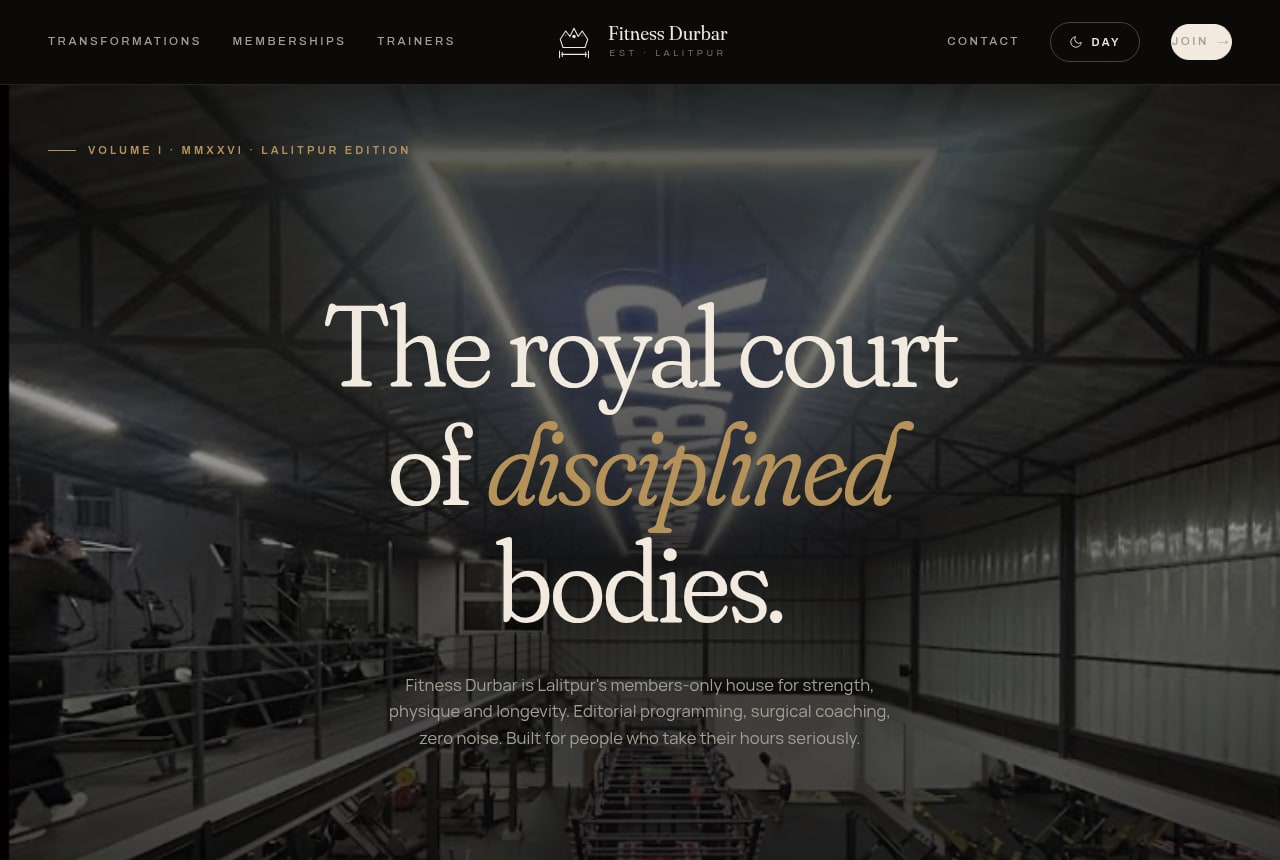
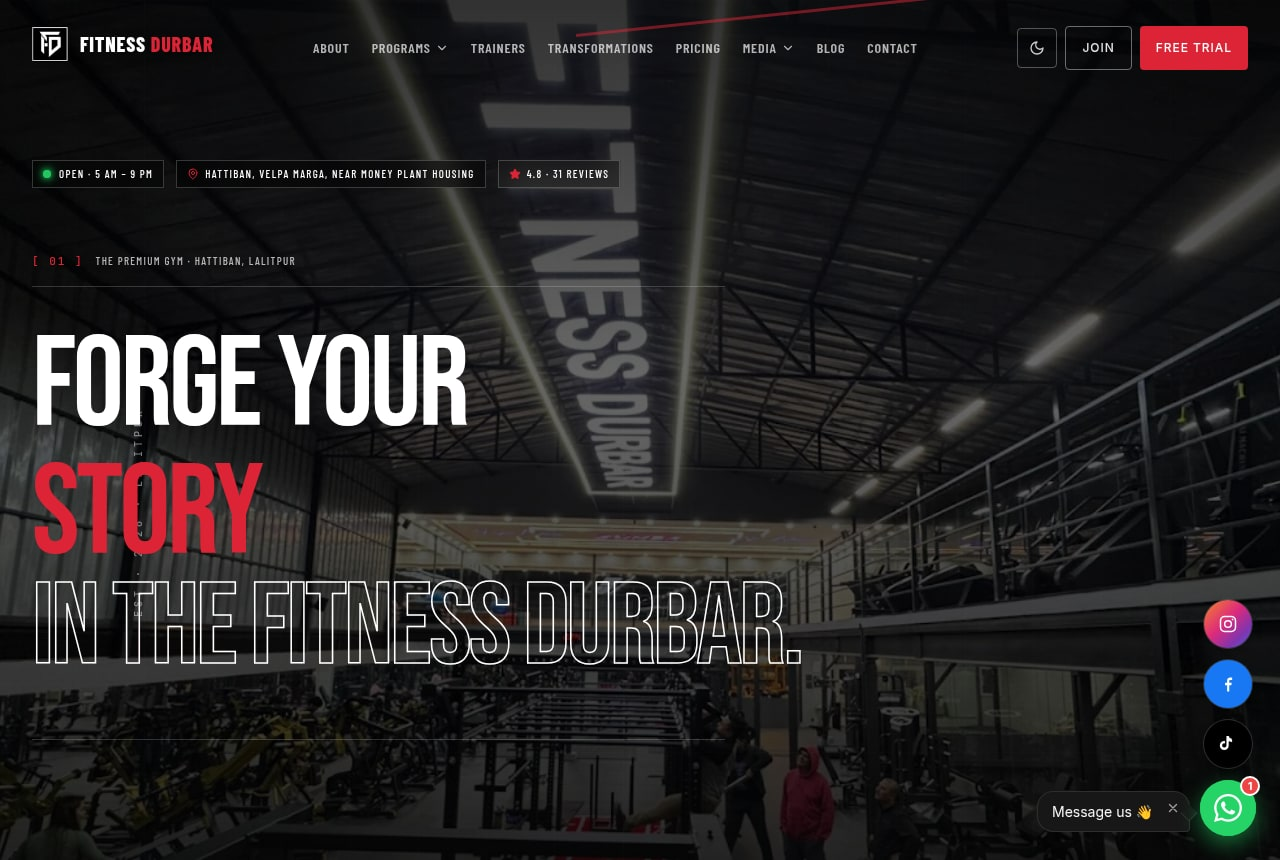
Point the Fitness Durbar case study at the live site
The real site is fitnessdurbar.com.np, a different and much fuller build
than the fitness-durbar.pages.dev concept the entry was written from.
Screenshot recaptured and the description rewritten to match what is
actually live: programmes, trainers, pricing, transformations, FAQ schema,
blog and media, social and WhatsApp enquiry.

diff --git a/src/data/projects.js b/src/data/projects.js
@@ -46,18 +46,17 @@ export const projects = [
     client: 'Fitness Durbar',
     sector: 'Gyms and fitness studios',
     sectorHref: '/sectors#gyms',
-    location: 'Hattiban, Lalitpur',
+    location: 'Hattiban, Velpa Marga, Lalitpur',
     year: '2026',
-    // Until fitnessdurbar.com is pointed at the site, the working address is
-    // the one we can link. Swap this the day the domain resolves.
-    url: 'https://fitness-durbar.pages.dev',
+    url: 'https://fitnessdurbar.com.np',
     summary:
-      'A members-only gym does not compete on being the cheapest in Lalitpur, so the site is not built to sell on price. It is built to set a standard and let the reader decide whether they belong in it.',
+      'A gym is chosen on proof: who will train you, what it costs, and whether people starting where you are have got anywhere. The site puts those three in front of the visitor rather than making them ask for any of them.',
     built: [
-      'An editorial design that treats the gym as a name rather than a facility, because selectivity is the thing being sold and a discount layout would have argued against it.',
-      'The address, coordinates and opening hours marked up as a health club, so the gym can be placed and shown correctly in local search.',
-      'Membership tiers set out in full, so the level of commitment is clear before anyone makes contact.',
-      'Trainer profiles and member transformations, which is the evidence people actually weigh before joining a gym.',
+      'Opening hours, map coordinates and the full address including its landmark marked up for search, so the gym can be placed on the map and shown as open or closed at the moment someone looks.',
+      'Programmes, trainers, pricing and member transformations each given a section of their own, so a visitor can go straight to the one question they arrived with.',
+      'The questions people ask before joining marked up as structured data, so the answers can be shown in search results without the visitor opening the site.',
+      'A blog and a media section, so the gym can publish on its own terms instead of depending on paid reach.',
+      'Instagram, Facebook and TikTok connected, and WhatsApp enquiry reachable from every screen, because those are the channels a gym in Lalitpur is actually contacted through.',
       'A day and a night theme, and a layout built for phones first.',
     ],
     services: [
